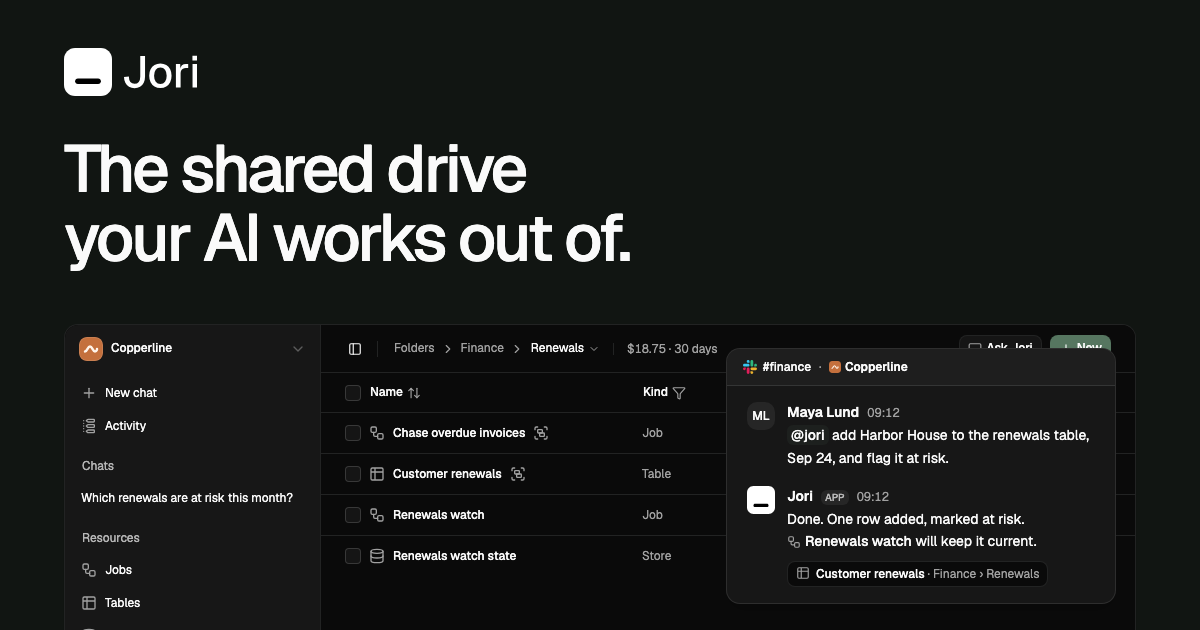
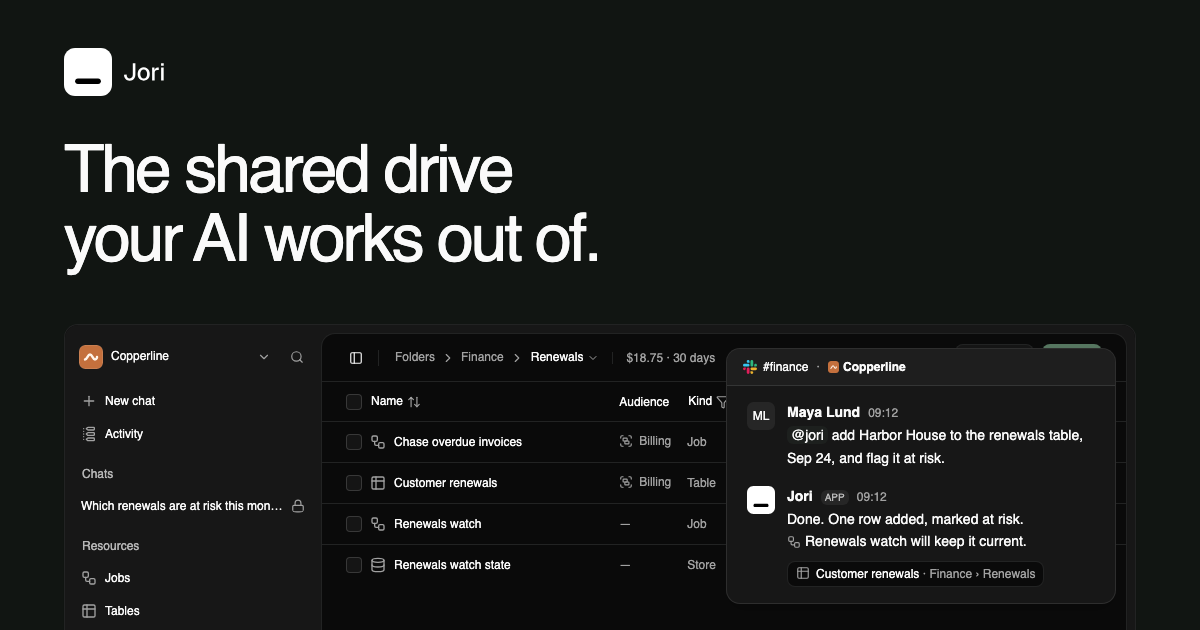
Set the lockup's name at the site header's size and re-capture the social cards
The exported lockup drew Jori at 92% of the mark's height; the header
sets a 16px name beside a 32px mark. The glyphs stay outlined at 48
units, which the footer's cropped name is tuned to, and the lockup
scales them to half the mark. The social cards are captured again over
the current console, with the landscape headline held to two lines.

diff --git a/src/shared/brand/lettering.ts b/src/shared/brand/lettering.ts
@@ -1,6 +1,6 @@
 // Generated from Geist Medium, SIL OFL 1.1, by scripts/brand/lettering.py.
-export const wordmarkWidth = 144.447
-export const wordmarkTransform = "translate(62.072 42.771)"
+export const wordmarkWidth = 108.034
+export const wordmarkTransform = "translate(63.414 35.084) scale(0.54167)"
 export const wordmarkPaths = [
   "M14.323 0.768Q10.886 0.768 8.328 -0.797Q5.77 -2.362 4.373 -5.126Q2.976 -7.891 2.928 -11.472L8.189 -11.779Q8.246 -7.939 9.845 -5.952Q11.443 -3.965 14.323 -3.965Q17.309 -3.965 18.926 -6.034Q20.544 -8.102 20.544 -12.019V-34.08H25.728V-12.019Q25.728 -8.102 24.312 -5.222Q22.896 -2.342 20.352 -0.787Q17.808 0.768 14.323 0.768Z",
   "M42.367 0.576Q38.719 0.576 35.978 -1.066Q33.238 -2.707 31.735 -5.717Q30.233 -8.726 30.233 -12.768Q30.233 -16.848 31.735 -19.834Q33.238 -22.819 35.978 -24.466Q38.719 -26.112 42.367 -26.112Q46.015 -26.112 48.737 -24.466Q51.458 -22.819 52.961 -19.834Q54.463 -16.848 54.463 -12.768Q54.463 -8.726 52.961 -5.717Q51.458 -2.707 48.737 -1.066Q46.015 0.576 42.367 0.576ZM42.367 -3.83Q45.602 -3.83 47.388 -6.202Q49.174 -8.573 49.174 -12.768Q49.174 -16.954 47.388 -19.33Q45.602 -21.706 42.367 -21.706Q39.132 -21.706 37.327 -19.33Q35.522 -16.954 35.522 -12.768Q35.522 -8.573 37.327 -6.202Q39.132 -3.83 42.367 -3.83Z",

diff --git a/scripts/brand/social.tsx b/scripts/brand/social.tsx
@@ -38,7 +38,7 @@ export function SocialImage() {
           "absolute left-16 text-balance font-medium tracking-[-0.045em]",
           square
             ? "top-[178px] max-w-[920px] text-[82px] leading-[1.06]"
-            : "top-[135px] max-w-[1000px] text-[66px] leading-[1.04]"
+            : "top-[135px] max-w-[800px] text-[66px] leading-[1.04]"
         )}
       >
         {brandHeadline}

diff --git a/scripts/brand/lettering.py b/scripts/brand/lettering.py
@@ -14,7 +14,15 @@ font = instantiateVariableFont(
 )
 glyphs = font.getGlyphSet()
 cmap = font.getBestCmap()
-scale = 48 / font["head"].unitsPerEm
+# The glyphs are outlined at 48 units, which the footer's cropped name is
+# tuned to. The lockup scales them down to the site header's proportions,
+# where a 16px name sits beside a 32px mark: half the mark's 52 units tall,
+# a quarter of it away.
+glyph_size = 48
+mark = 52
+gap = mark / 4
+lockup = mark / 2 / glyph_size
+scale = glyph_size / font["head"].unitsPerEm
 paths = []
 cursor = 0
 for letter in "Jori":
@@ -30,13 +38,13 @@ left = min(bounds[0] for _, bounds in paths)
 top = min(bounds[1] for _, bounds in paths)
 right = max(bounds[2] for _, bounds in paths)
 bottom = max(bounds[3] for _, bounds in paths)
-offset_x = round(65 - left, 3)
-offset_y = round((52 - (bottom - top)) / 2 - top, 3)
-width = round(65 + right - left, 3)
+offset_x = round(mark + gap - left * lockup, 3)
+offset_y = round((mark - (bottom - top) * lockup) / 2 - top * lockup, 3)
+width = round(mark + gap + (right - left) * lockup, 3)
 source = (
     "// Generated from Geist Medium, SIL OFL 1.1, by scripts/brand/lettering.py.\n"
     f"export const wordmarkWidth = {width}\n"
-    f'export const wordmarkTransform = "translate({offset_x} {offset_y})"\n'
+    f'export const wordmarkTransform = "translate({offset_x} {offset_y}) scale({round(lockup, 5)})"\n'
     "export const wordmarkPaths = [\n"
     + "".join(f'  "{data}",\n' for data, _ in paths)
     + "] as const\n"
